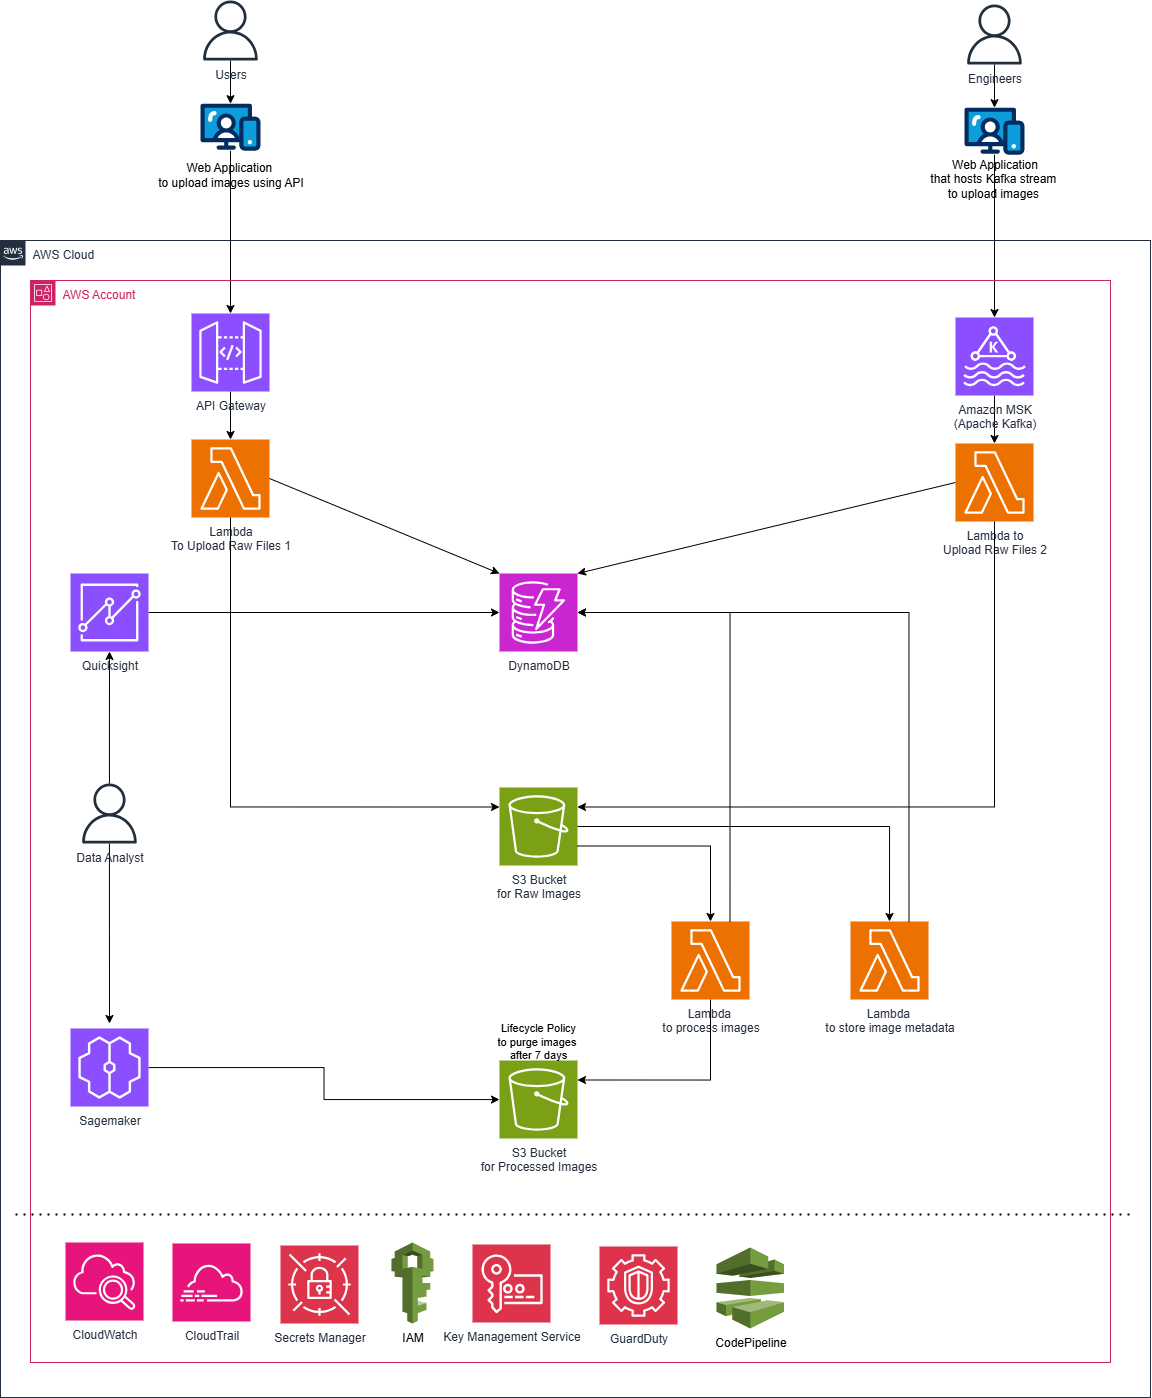
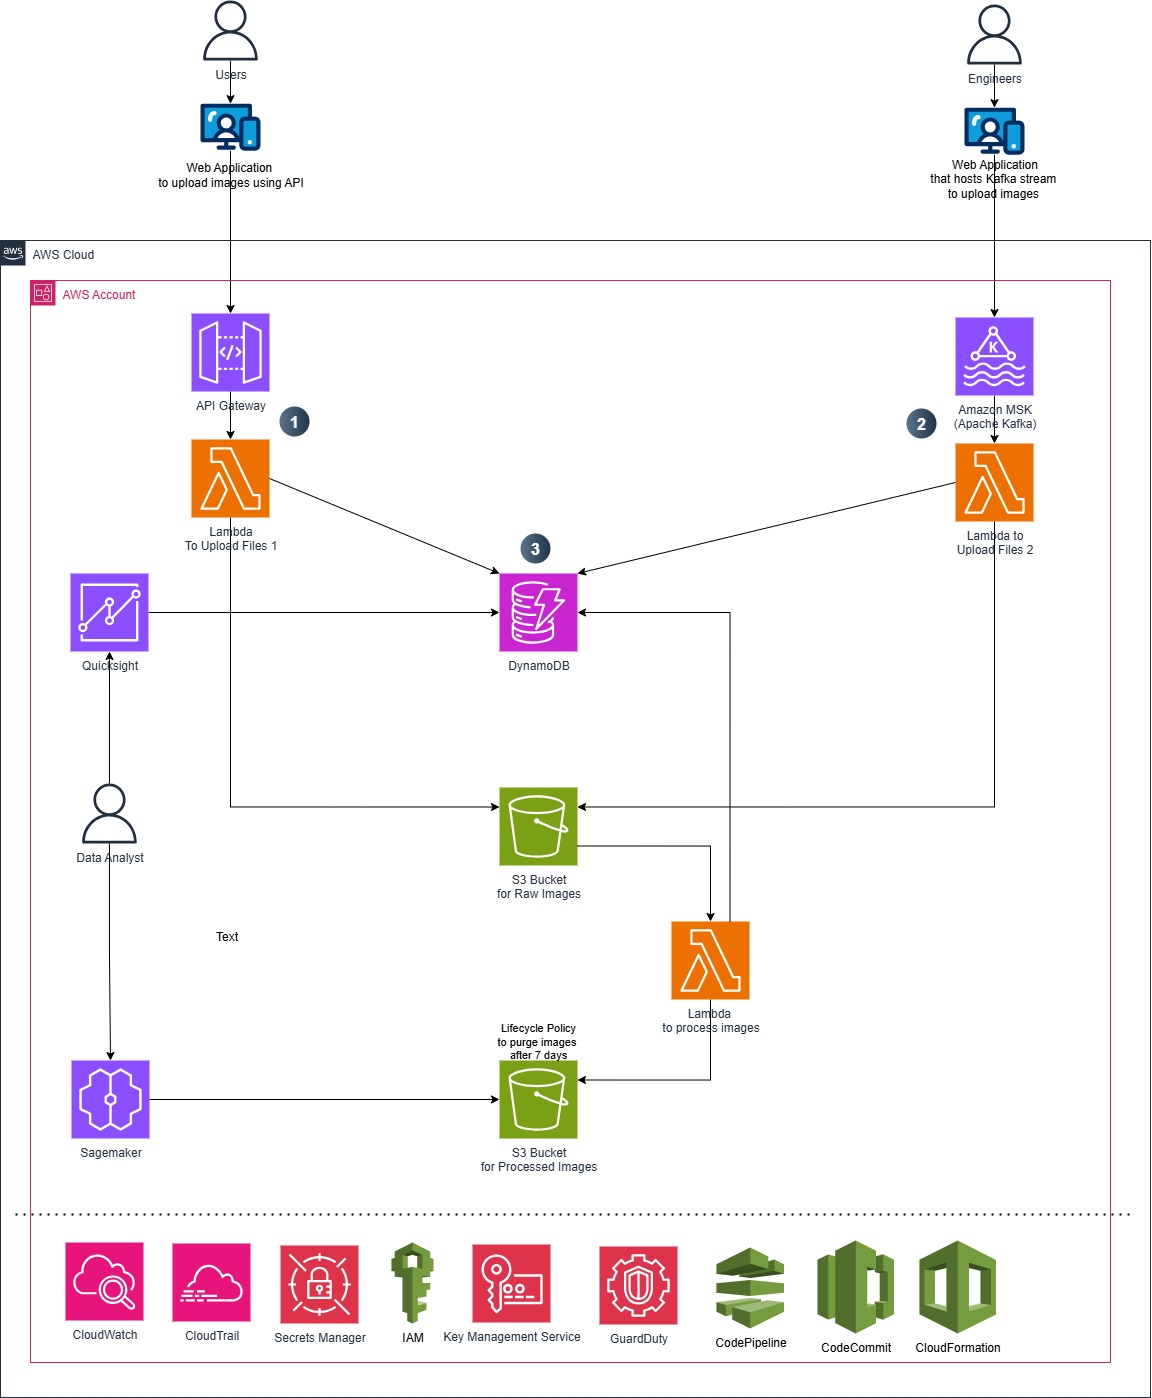
Add files via upload

diff --git a/section_3/readme.md b/section_3/readme.md
@@ -1,32 +1,60 @@
 # Section3: Design 2 (Architecture Design)
 ---
-## 1. Proposed AWS Architecture
+
+## A. Explanation on system flow and architecture
+1. API Gateway exposes the API, triggering Lambda (Lambda to upload files 1) to store image metadata in DynamoDB and save raw image files to the S3 raw images bucket.
+
+2. Amazon MSK (Kafka) receives messages, which are processed by Lambda (Lambda to upload files 2) to similarly store metadata in DynamoDB and upload raw images to the S3 raw images bucket.
+
+## B. Assumptions
+- The system is built using AWS-managed services.
+- The client application restricts image uploads up to 10MB, aligning with API Gateway's payload limit.
+- AWS Lambda restricts limits up to 15 minutes per execution and up to 10GB memory / 6 vCPUs.
+- Terraform automates infrastructure provisioning, with its scripts stored and version-controlled in AWS CodeCommit.
+- The system retains raw and processed images for up to 7 days to meet compliance requirements, so DynamoDB is used for storage. If long-term retention were required and cost were not a constraint, I would instead design the solution using Redshift.
+
+## C. AWS-managed services used in this solution.
 
 ![view here](architecture_design.png)
 
-### These are following AWS services to design the solution:
+### IAM (Identity and Access Management)
+AWS’s service for securely managing users, groups, and permissions to control access to cloud resources.
 
-#### IAM (Identity and Access Management): 
-is AWS’s service for securely managing users, groups, and permissions to control access to cloud resources.
+### Amazon CloudWatch
+A monitoring and observability service that collects and tracks metrics, logs, and events to provide real-time insights into AWS resources, applications, and infrastructure.
 
-#### Amazon CloudWatch: 
-is a monitoring and observability service that collects and tracks metrics, logs, and events to provide real-time insights into AWS resources, applications, and infrastructure.
+### AWS CodePipeline (CI/CD)
+A fully managed service that automates continuous integration and continuous delivery, streamlining application and infrastructure updates.
 
-#### AWS CodePipeline (CI/CD): 
-is an automated continuous integration and deployment to streamline updates and enhancements.
+### AWS CloudTrail: 
+A service that records, monitors, and audits all API calls and account activity across AWS environments to ensure security and compliance.
 
-#### AWS CloudTrail: 
-is a service that records, monitors, and audits all API calls and account activity across your AWS environment for security and compliance.
+### AWS Secrets Manager
+Securely stores, manages, and rotates sensitive information—such as database credentials, API keys, and tokens—to protect access to applications and resources.
 
-#### AWS Secrets Manager: 
-is a service that securely stores, manages, and rotates sensitive information like database credentials, API keys, and tokens to protect access to applications and resources.
+### AWS Key Management Service (KMS)
+A managed service for creating, managing, and controlling cryptographic keys to securely encrypt and decrypt data across AWS services and applications.
 
-#### AWS Key Management Service (KMS): 
-is a managed service that creates, manages, and controls cryptographic keys to securely encrypt and decrypt data across AWS services and applications.
+### Amazon GuardDuty
+A threat detection service that continuously monitors AWS accounts, workloads, and data for malicious activity and unauthorized behavior.
 
-#### Amazon GuardDuty: 
-is a threat detection service that continuously monitors AWS accounts, workloads, and data for malicious activity and unauthorized behavior.
+### Amazon API Gateway
+A fully managed service that enables developers to create, publish, secure, and monitor APIs at any scale.
 
-#### AWS CodePipeline: 
-is a fully managed continuous integration and continuous delivery (CI/CD) service that automates the build, test, and deployment stages of application and infrastructure updates.
+### Apache Kafka
+A distributed streaming platform that allows real-time publishing, storing, and processing of high-throughput event and message streams.
 
+### AWS Lambda
+A serverless compute service that runs code in response to events without requiring you to provision or manage servers.
+
+### Amazon DynamoDB
+A fully managed, serverless NoSQL database that provides fast and predictable performance with seamless scalability.
+
+### Amazon QuickSight
+A cloud-based business intelligence service that enables users to create interactive dashboards, visualizations, and insights from their data.
+
+### Amazon S3 (Simple Storage Service) bucket
+A scalable, durable cloud storage container used to store and retrieve objects such as files, images, and backups.
+
+### AWS CloudFormation
+A service that allows you to define and provision AWS infrastructure as code using templates, enabling automated, repeatable, and consistent deployments
